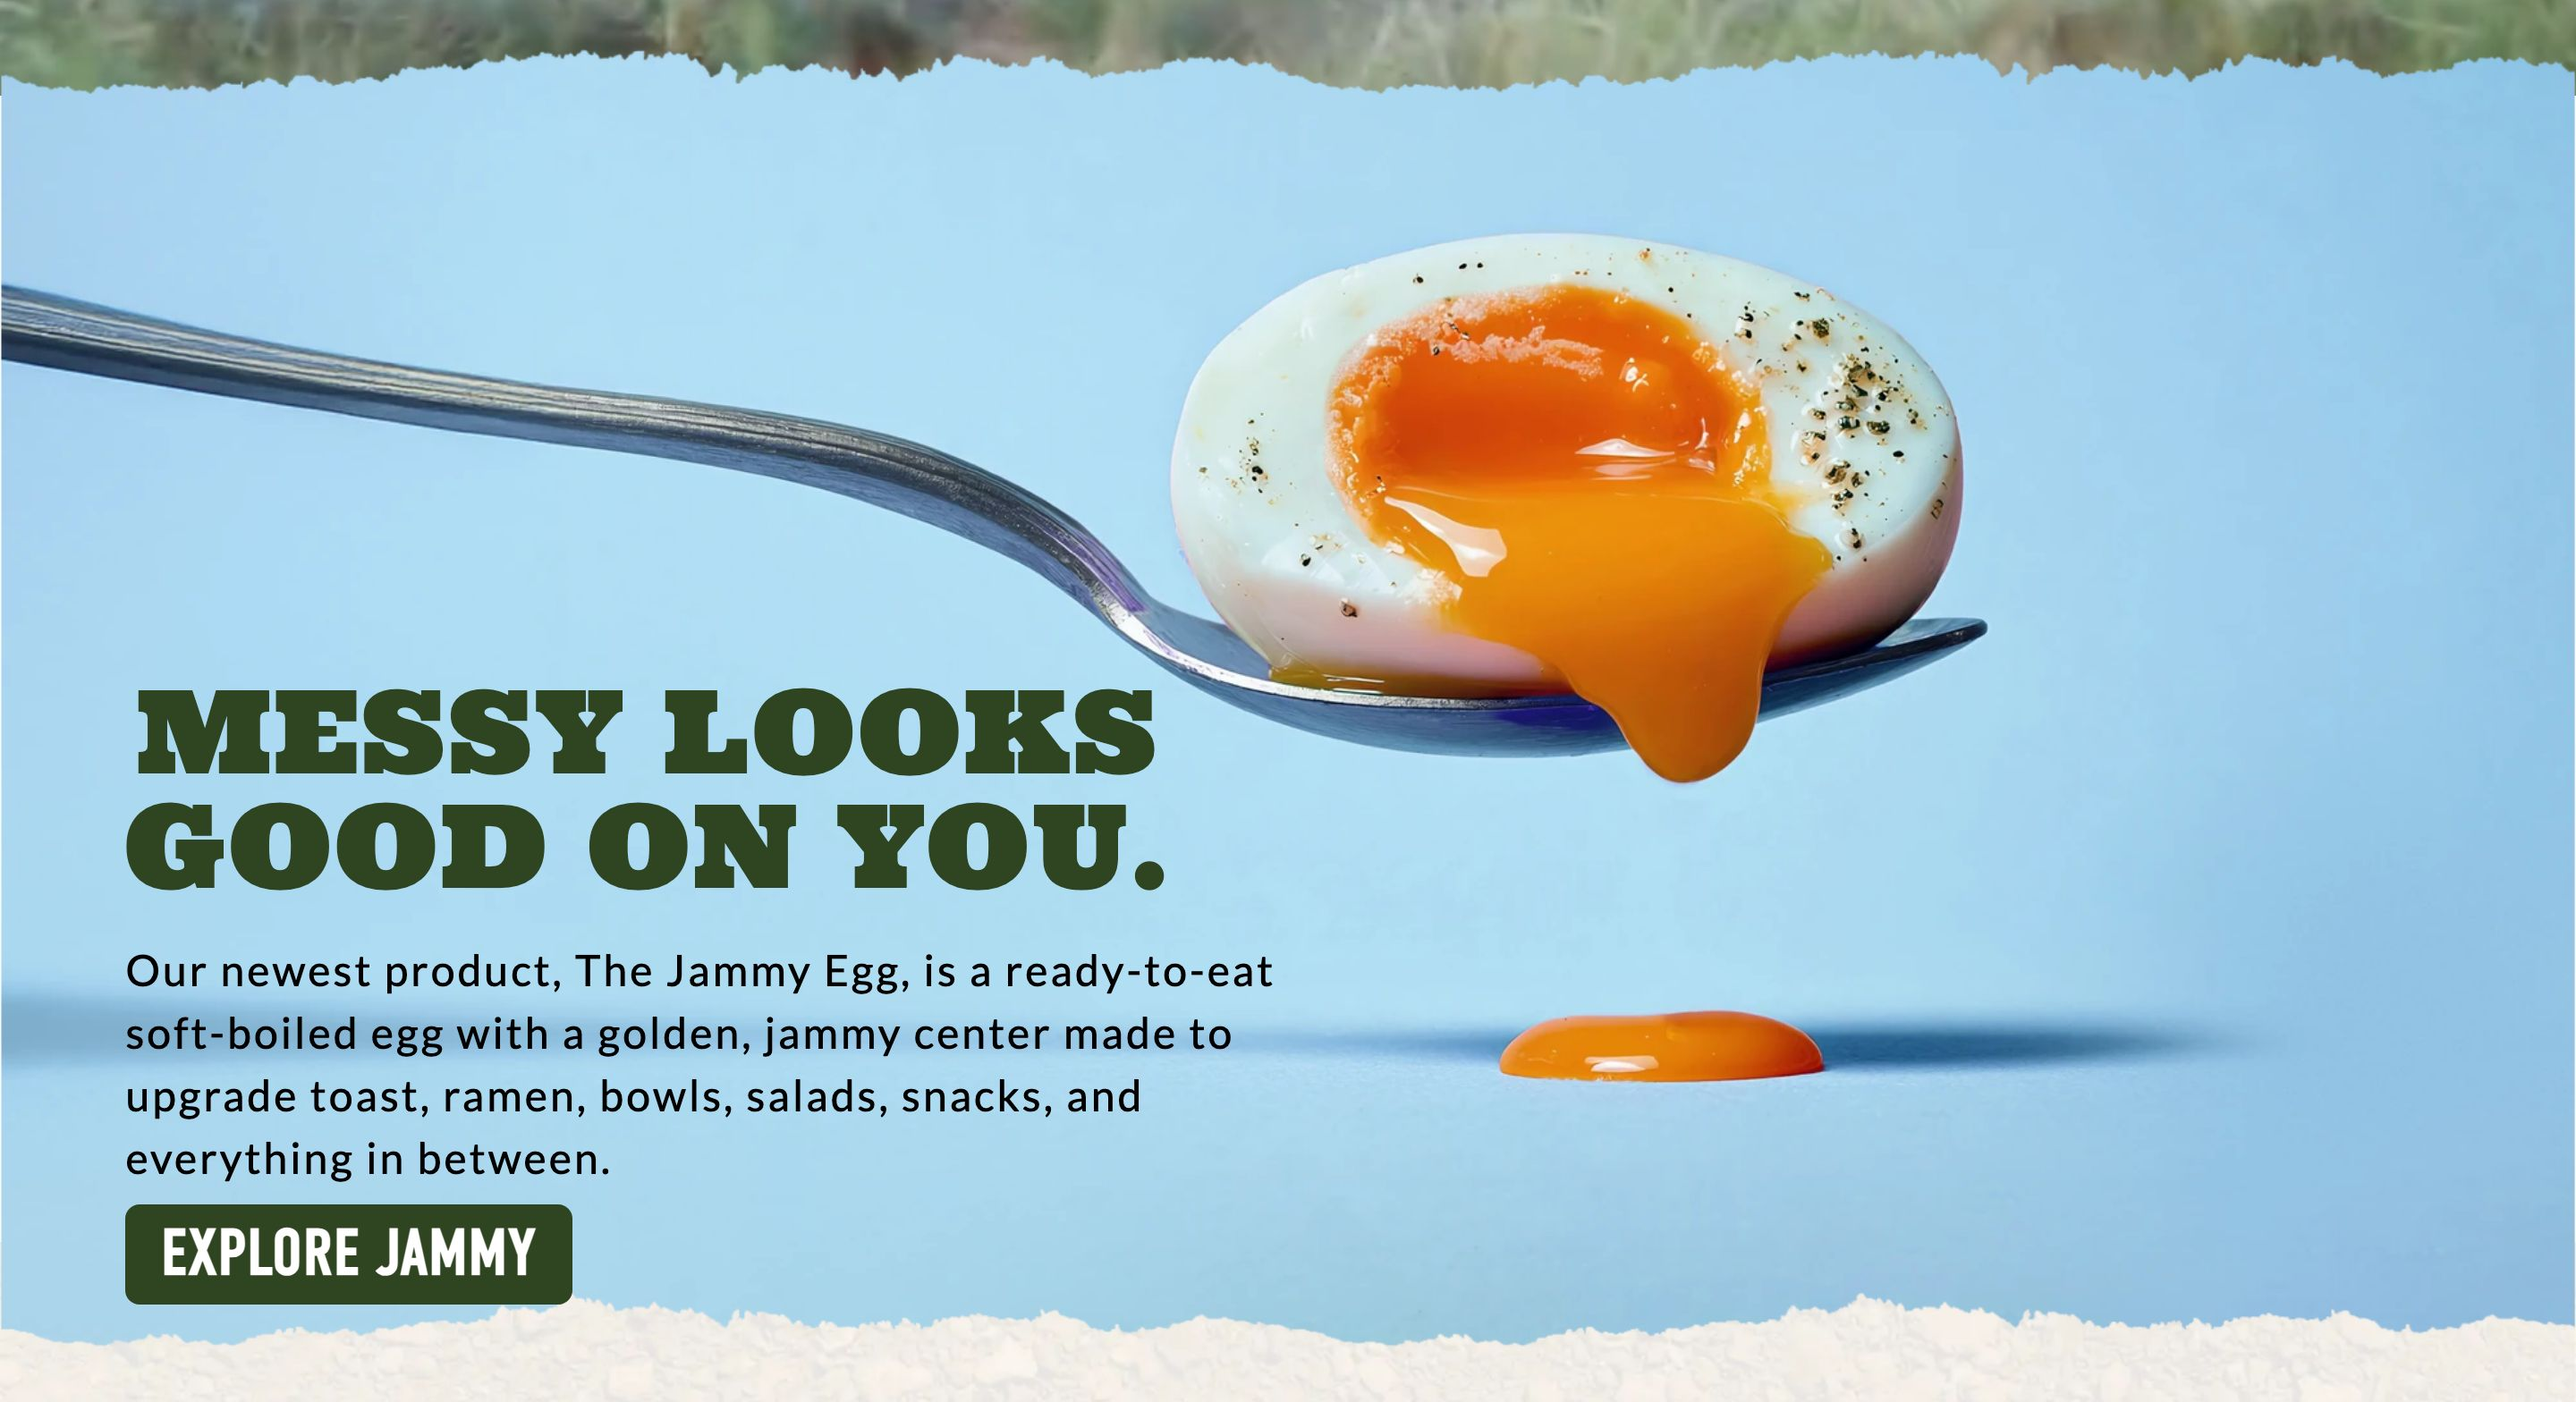
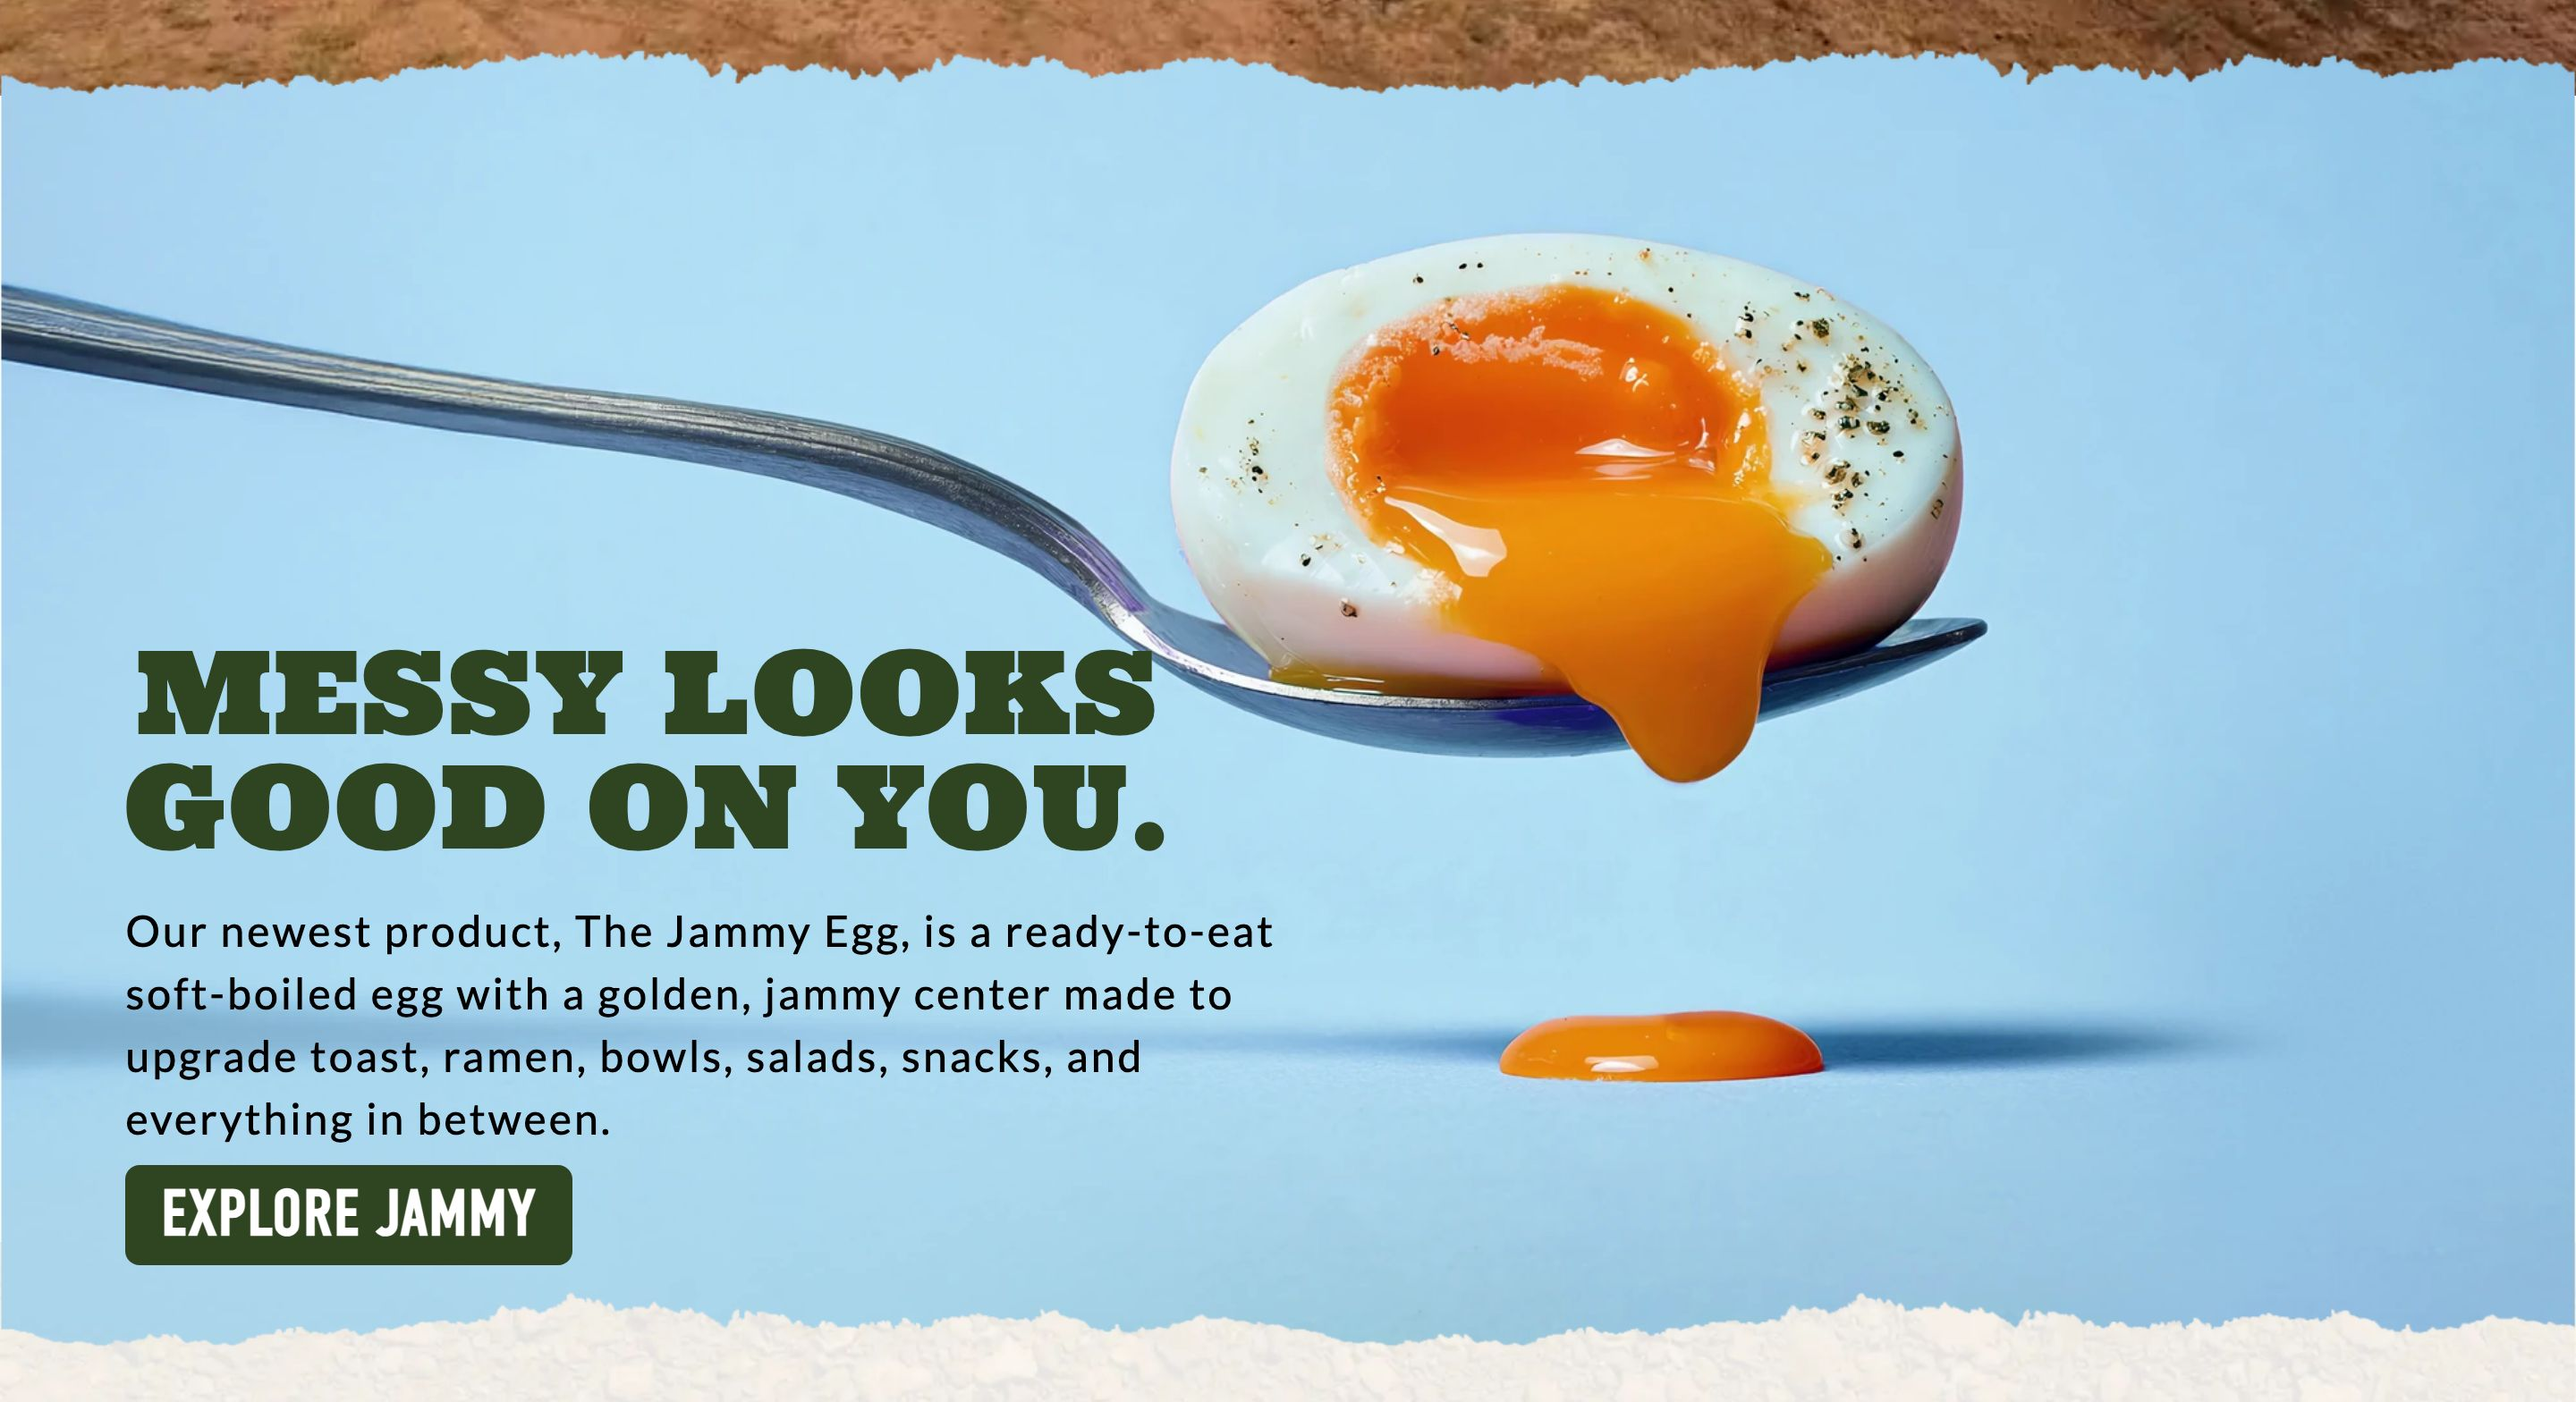
Homepage Jammy band: cap the button size, add blue below it
Two items from the business's review of the merged homepage band.

Button size. The other three homepage CTAs ("Find a Store Near You", "More
Recipes", "Learn More About Our Family Farms") are a flat 36px. This button was
sized in container units, which matched them at exactly 1440 and grew past them
above it -- 37.8px on a 1512 laptop, 43.2px at 1728, 48px at 1920. That is what
was seen: "the 'EXPLORE JAMMY' button text looks slightly bigger." It is
min(2.5cqw, 36px) now, so it matches from 1440 up and still scales down below
that, where a fixed 36px would run into the artwork's torn fringe.

The font was already DIN Condensed, as suspected -- confirmed rendering rather
than falling back, same family and weight as the other CTAs. Only the size
differed.

Bottom padding. The button sat 16-29px off the band's bottom edge on desktop.
The band's height cannot simply grow: it is locked to the artwork's 2000/1017
aspect so the torn edges show in full rather than being cropped. So the whole
overlay block -- headline, body and button -- moved up 3 points (48/68/88.4 ->
45/65/85.4), which roughly doubles the blue below: 29->51px at 1440, 16->32px
at 1024, 57->87px at 1920. All three moved together, so their spacing relative
to each other is unchanged, and nothing collides at 1024-2560.

item1 gains an assertion for each, and now runs at 1920 where the oversize
showed. Both verified to fail on the previous state: 48px against 36px, and
29/16px of blue.
[…]

Changed region(s): [[0.0312, 0.4375, 0.5, 0.9375], [0.0, 0.0, 1.0, 0.0625]]

diff --git a/scripts/qa/jammy/item1.js b/scripts/qa/jammy/item1.js
@@ -11,7 +11,7 @@ const R=[];const ck=(n,p,d='')=>{R.push(p);console.log(`${p?'PASS':'FAIL'}  ${n}
 // treatment, and the Jammy button has to sit in that set.
 (async()=>{
   const b=await chromium.launch();
-  for (const [w,label] of [[1440,'design width'],[1024,'narrow desktop'],[390,'phone']]) {
+  for (const [w,label] of [[1920,'wide desktop'],[1440,'design width'],[1024,'narrow desktop'],[390,'phone']]) {
     const p=await b.newContext({viewport:{width:w,height:1000}}).then(c=>c.newPage());
     await p.goto('http://localhost:7500/',{waitUntil:'networkidle',timeout:60000});
     await p.getByRole('region',{name:/cookie consent/i}).getByRole('button',{name:/reject all/i}).click().catch(()=>{});
@@ -47,6 +47,7 @@ const R=[];const ck=(n,p,d='')=>{R.push(p);console.log(`${p?'PASS':'FAIL'}  ${n}
       return {jammy:d(jammy), ref:d(ref),
               faceRenders: Math.abs(withFace-fallback)>0.5,
               gapUnderCopy: body?Math.round(r.top-body.getBoundingClientRect().bottom):null,
+              blueBelow: band?Math.round(br.bottom-r.bottom):null,
               endsPct:+(((r.bottom-br.top)/br.height)*100).toFixed(1),
               overlaid:getComputedStyle(jammy).position==='absolute'};
     });
@@ -64,15 +65,28 @@ const R=[];const ck=(n,p,d='')=>{R.push(p);console.log(`${p?'PASS':'FAIL'}  ${n}
        `${m.jammy.lsPerEm}em vs ${m.ref.lsPerEm}em`);
     ck('same corner radius', m.jammy.radius===m.ref.radius, `${m.jammy.radius} vs ${m.ref.radius}`);
 
-    if(w===1440)
-      // At the width the design is drawn for, the sizes must actually match.
-      // Below this the band's overlay scales its type in container units so
-      // the button stays inside the artwork, which is why this is not
-      // asserted at every breakpoint.
-      ck('same size at the design width', m.jammy.fs===m.ref.fs, `${m.jammy.fs}px vs ${m.ref.fs}px`);
+    // From the design width up the sizes must MATCH, not merely be close.
+    // The overlay sizes this button in container units, which matched the
+    // other CTAs at exactly 1440 and grew past them above it -- 37.8px on a
+    // 1512 laptop, 43.2px at 1728, 48px at 1920. QA: "the 'EXPLORE JAMMY'
+    // button text looks slightly bigger than the 'FIND A STORE NEAR YOU' font
+    // size." It is capped at 36px now; below 1440 it still scales down so it
+    // clears the artwork's torn fringe.
+    if(w>=1440)
+      ck('same size as the other CTAs', m.jammy.fs===m.ref.fs, `${m.jammy.fs}px vs ${m.ref.fs}px`);
     else
       ck('type is not smaller than the reference', m.jammy.fs>=m.ref.fs-11,
          `${m.jammy.fs}px vs ${m.ref.fs}px`);
+
+    if(m.overlaid && m.blueBelow!==null){
+      // QA: "a little extra bottom padding on the section ... more blue
+      // space." The button sat 16-29px off the band's bottom edge on desktop;
+      // the whole overlay block moved up 3 points to roughly double that. The
+      // band's own height cannot grow -- it is locked to the artwork's
+      // 2000/1017 aspect so the torn edges show in full.
+      ck('blue space below the button', m.blueBelow>=30,
+         `${m.blueBelow}px below the button`);
+    }
 
     if(m.overlaid){
       // Making the type bigger grew the button, and it has to stay inside the

diff --git a/styles/globals.css b/styles/globals.css
@@ -620,7 +620,7 @@
   .jammy-cta__head {
     position: absolute;
     left: 2.578%;
-    top: 48%;
+    top: 45%;
     width: 45.157%;
     margin: 0;
     font-size: 4.4599cqw;
@@ -633,7 +633,7 @@
   .jammy-cta__body {
     position: absolute;
     left: 4.878%;
-    top: 68%;
+    top: 65%;
     width: 45.157%;
     max-width: none;
     margin: 0;
@@ -668,15 +668,34 @@
        2.5cqw is 36px at a 1440 band: the same size the page's other CTAs
        take, at the width the design is drawn for. Below that it scales with
        everything else in the overlay rather than crowding it. */
-    /* Anchored below the copy, which ends at a stable 87.3% of the band at
+    /* The whole overlay block -- headline, body and this button -- sits 3
+       points higher than it did (48/68/88.4 -> 45/65/85.4), which is what
+       gives the band more blue under the button: QA asked for "a little extra
+       bottom padding ... more blue space". The band's height cannot simply
+       grow, because it is locked to the artwork's 2000/1017 aspect so the
+       torn edges show in full; moving the content up is what frees the room.
+       All three move together, so their spacing relative to each other is
+       unchanged.
+
+       Anchored below the copy, which ends at a stable 87.3% of the band at
        every width. A bottom anchor held the fringe clearance but let the
        button drift up into that copy as the band shrank (-1px at 1024); a
        fixed top anchor plus a height that no longer scales did the reverse.
        88.4% sits just under the copy and, with the type scaling as below,
        ends at 95-96% -- clear of the 97.2% where the torn fringe bites. */
-    top: 88.4%;
+    top: 85.4%;
     bottom: auto;
-    font-size: 2.5cqw;
+    /* Capped at 36px, the size the page's other CTAs take ("Find a Store Near
+       You", "More Recipes", "Learn More About Our Family Farms" are all a flat
+       36px). 2.5cqw alone matched them at exactly 1440 and grew past them
+       above it -- 37.8px on a 1512 laptop, 43.2px at 1728, 48px at 1920 --
+       which is what the business saw: "the 'EXPLORE JAMMY' button text looks
+       slightly bigger."
+
+       The cqw term is kept as the LOWER bound rather than replaced by a flat
+       36px: below 1440 the band shrinks and a fixed 36px button runs into the
+       artwork's torn fringe, which is why it was scaled in the first place. */
+    font-size: min(2.5cqw, 36px);
     line-height: 1.111;
     width: auto;
     min-width: 0;
